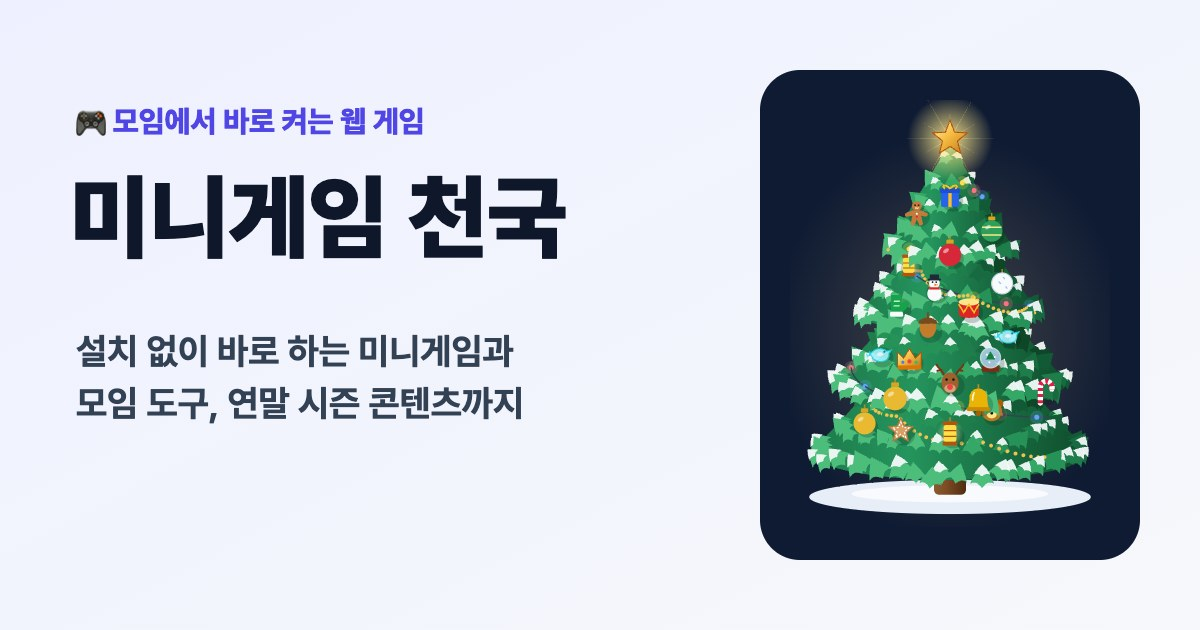
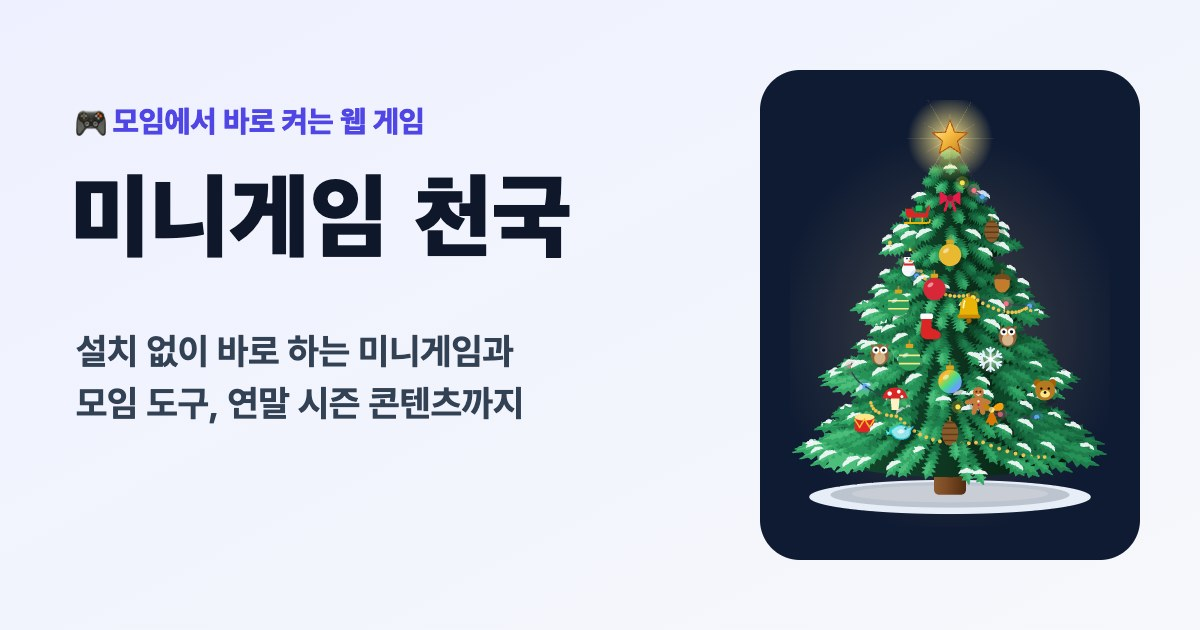
feat(advent-tree): 진짜 전나무처럼 가지마다 솔잎 다발, 어두운 속, 가지 위 눈덩이
- 잎 스티커 대신 줄기에서 뻗는 가지(약 360개)를 그린다. 가지마다 솔잎 다발 3개를
  화면에 비친 가지 방향대로 늘여 그려서 옆 가지는 길게, 나를 향한 가지는 짧게 보인다
- 속 원뿔을 어둡게 바꿔 가지 사이로 깊이가 보이게, 가지 끝은 밝게
- 가지 위에 얹힌 눈덩이, 트리 밑 그림자
- 전구·구슬 줄은 가지 위로 살짝 띄움
- 링크 미리보기 이미지 다시 생성

diff --git a/games/advent-tree.html b/games/advent-tree.html
@@ -1204,14 +1204,17 @@
         // ════════════════════════════════════════════════════════════
         // 트리 색 테마 (순서 고정: 링크 스냅샷에 번호로 들어간다)
         const THEMES = {
-            green: { name: '초록', emoji: '🌲', leaf: ['#0d4728', '#125a35', '#186b40', '#1e7d4b', '#279257', '#35a766', '#4dbd7c'], cone: ['#1d7a4b', '#25945d', '#0e4a2a'] },
-            snow: { name: '눈꽃', emoji: '❄', leaf: ['#6f879e', '#8aa1b6', '#a5b9cb', '#bfcfdd', '#d6e1ea', '#e8eef4', '#f7fafc'], cone: ['#b9c9d8', '#dbe5ee', '#8299ae'] },
-            pink: { name: '핑크', emoji: '🌸', leaf: ['#7f2450', '#9b3363', '#b44476', '#c95a8a', '#da74a0', '#e892b7', '#f4b6d1'], cone: ['#c2558a', '#d97aa6', '#87295a'] },
-            gold: { name: '금빛', emoji: '✨', leaf: ['#6e4a0c', '#865c12', '#9f6f19', '#b88423', '#cf9b33', '#e2b64f', '#f2d27f'], cone: ['#b98a2a', '#d6a943', '#76520f'] }
+            green: { name: '초록', emoji: '🌲', leaf: ['#0d4728', '#125a35', '#186b40', '#1e7d4b', '#279257', '#35a766', '#4dbd7c'], cone: ['#164a2d', '#103d25', '#05190d'] },
+            snow: { name: '눈꽃', emoji: '❄', leaf: ['#6f879e', '#8aa1b6', '#a5b9cb', '#bfcfdd', '#d6e1ea', '#e8eef4', '#f7fafc'], cone: ['#71879c', '#5e7388', '#33465a'] },
+            pink: { name: '핑크', emoji: '🌸', leaf: ['#7f2450', '#9b3363', '#b44476', '#c95a8a', '#da74a0', '#e892b7', '#f4b6d1'], cone: ['#7c2653', '#681d45', '#3a0c25'] },
+            gold: { name: '금빛', emoji: '✨', leaf: ['#6e4a0c', '#865c12', '#9f6f19', '#b88423', '#cf9b33', '#e2b64f', '#f2d27f'], cone: ['#6a4912', '#553a0c', '#2a1b04'] }
         };
         const THEME_KEYS = Object.keys(THEMES);
 
+        // 솔잎 다발 (가지 방향 = +x, 0~1 길이, 폭 -0.5~0.5). 가장자리가 톱니라 솔잎처럼 보인다. 트리 그림에서 <use href="#fr">로 쓴다.
+        const FROND = 'M0 0L.1-.2.17-.08.3-.42.37-.18.52-.5.58-.22.75-.4.79-.14 1-.04 1 .04.79.14.75.4.58.22.52.5.37.18.3.42.17.08.1.2Z';
         const DEFS = `<defs>
+            <path id="fr" d="${FROND}"/>
             <linearGradient id="gGold" x1="0" y1="0" x2="1" y2="1"><stop offset="0" stop-color="#fff3b0"/><stop offset=".5" stop-color="#f5b83d"/><stop offset="1" stop-color="#b7791f"/></linearGradient>
             <linearGradient id="gAurora" x1="0" y1="0" x2="0" y2="1"><stop offset="0" stop-color="#a5f3fc"/><stop offset=".5" stop-color="#a78bfa"/><stop offset="1" stop-color="#f0abfc"/></linearGradient>
             <linearGradient id="gIce" x1="0" y1="0" x2="0" y2="1"><stop offset="0" stop-color="#f0f9ff"/><stop offset="1" stop-color="#60a5fa"/></linearGradient>
@@ -1408,33 +1411,39 @@
                 return { x: 150 + lx, y: y + d * K, d, lx, r };
             }
 
-            // 잎 뭉치: 층마다 고리 모양으로 고정 배치 (돌리면 같이 돌아서 입체감이 난다)
-            const TUFTS = (() => {
+            // 가지: 층마다 줄기에서 바깥·아래로 뻗는 가지를 고리 모양으로 고정 배치.
+            // 가지 하나 = 줄기 쪽(base)에서 끝(tip)까지 곧은 선 위에 솔잎 다발 3개. 화면에 비친 가지 방향대로 늘여 그려서
+            // 옆으로 뻗은 가지는 길게, 나를 향한 가지는 짧고 둥글게 보인다(원근 단축). 안쪽은 어두운 속 원뿔이 비친다.
+            const BRANCHES = (() => {
                 const out = [];
                 const rnd = mulberry32(20261201);
                 TIERS.forEach((t) => {
                     const [ap, b] = t;
-                    const rows = Math.round((b - ap) / 22);
+                    const rows = Math.max(3, Math.round((b - ap) / 15));
                     for (let i = 1; i <= rows; i++) {
                         const y0 = ap + ((b - ap) * i) / rows - 1;
-                        const n = Math.max(3, Math.round((2 * Math.PI * tierR(t, y0)) / 17));
+                        const n = Math.max(3, Math.round((2 * Math.PI * tierR(t, y0)) / 23));
                         for (let j = 0; j < n; j++) {
-                            const y = Math.min(b - 1, y0 - rnd() * 8);
+                            const y = Math.min(b - 1, y0 - rnd() * 6);
                             const r = tierR(t, y);
                             if (r < radiusAt(y) - 3) continue;   // 위층 안쪽이라 안 보인다
-                            // 위층 치마 바로 밑은 그늘, 층 끝자락은 조금 밝고 크게
-                            const shade = TIERS.some(([, b2, hw2]) => y > b2 && y - b2 < 24 && hw2 > r * 0.8) ? -2 : i === rows ? 1 : 0;
-                            out.push({ a: ((j + (i % 2) * 0.5) / n) * 360 + rnd() * 8, y, r, s: (0.85 + rnd() * 0.35) * (i === rows ? 1.18 : 1), w: rnd() * 30 - 15, shade, lite: (i + j) % 3 === 0 || i === rows, snow: rnd() < (i === rows ? 0.7 : 0.38) });
+                            // 위층 치마 바로 밑은 그늘, 층 끝자락은 조금 밝게
+                            const shade = TIERS.some(([, b2, hw2]) => y > b2 && y - b2 < 22 && hw2 > r * 0.8) ? -1.6 : i === rows ? 0.5 : 0;
+                            out.push({
+                                a: ((j + (i % 2) * 0.5) / n) * 360 + rnd() * 10 - 5, y, r: r * (1 + rnd() * 0.07),
+                                len: 0.42 + rnd() * 0.14, lift: 0.1 + rnd() * 0.08, w: 0.85 + rnd() * 0.35,
+                                shade: shade + rnd() * 0.8 - 0.4, snow: rnd() < (i === rows ? 0.62 : 0.34)
+                            });
                         }
                     }
                 });
                 return out;
             })();
-            const TUFT = 'M0-8C2.6-4 5.6-.4 8 4.6 4.6 3 2.4 3.8 0 7.6-2.4 3.8-4.6 3-8 4.6-5.6-.4-2.6-4 0-8Z';
-            const CAP = 'M-5.6-1.2C-4-4-2-6.2 0-8 2-6.2 4-4 5.6-1.2 3.4-2.4 1.6-1.4 0-.2-1.6-1.4-3.4-2.4-5.6-1.2Z';
+            // 가지 위에 얹힌 눈덩이 (가로로 길고 위가 둥근 모양)
+            const CAP = 'M-6.4.6C-6.2-1.6-4.4-3-2.4-2.8-1.4-4.2 1.2-4.4 2.4-3 4.4-3.2 6.4-1.6 6.6.6 4.4-.6 2.2.2 0-.4-2.2.4-4.4-.4-6.4.6Z';
+            const SPRAY_T = [0.42, 0.7, 0.98];
             // 왼쪽 앞에서 빛이 온다
             const lightOf = (phi) => 0.5 + 0.5 * Math.cos((phi + 40) * RAD);
-            const leafColor = (th, phi, shade = 0) => th.leaf[clamp(Math.floor(lightOf(phi) * 6.99) + shade, 0, 6)];
             const SMALL = ['#fde047', '#fb7185', '#60a5fa', '#4ade80'];
             const BIG = ['#f43f5e', '#facc15', '#22d3ee', '#a3e635', '#c084fc'];
 
@@ -1462,12 +1471,33 @@
                 const s = 0.62 + 0.38 * f;
                 const P = (x, y) => scaled(x, y, f);
                 const items = [];
-                TUFTS.forEach((t) => {
-                    if (o.lite && !t.lite) return;
-                    const p = project(t.a, t.y, rot, t.r);
-                    if (p.d < -0.3 * t.r || cover(p.lx, p.d, t.y) >= 0) return;
-                    const [x, y] = P(p.x, p.y);
-                    items.push({ k: 't', x, y, d: p.d, sc: f * t.s * (o.lite ? 1.35 : 1) * (1 + p.d / 700), rot: (p.lx / Math.max(t.r, 1)) * 38 + t.w, c: leafColor(th, t.a - rot, t.shade), cap: t.snow });
+                BRANCHES.forEach((br) => {
+                    const tip = project(br.a, br.y, rot, br.r);
+                    if (tip.d < -0.3 * br.r || cover(tip.lx, tip.d, br.y) >= 0) return;
+                    const base = project(br.a, br.y - br.r * br.lift, rot, br.r * (1 - br.len));
+                    const dx = (tip.x - base.x) * f;
+                    const dy = (tip.y - base.y) * f;
+                    const L = Math.hypot(dx, dy) || 1;
+                    const ux = dx / L;
+                    const uy = dy / L;
+                    const near = 1 + tip.d / 700;
+                    const W = 13 * br.w * f * near * (o.lite ? 1.3 : 1);
+                    const Ls = Math.max(L * 0.62, W * 0.78);
+                    const sg = ux >= 0 ? 1 : -1;      // 다발의 "윗면"이 늘 화면 위쪽을 향하게 뒤집는다
+                    const light = lightOf(br.a - rot);
+                    const [bx, by] = P(base.x, base.y);
+                    SPRAY_T.forEach((tt, k) => {
+                        if (o.lite && k < 2) return;
+                        const cx = bx + dx * tt - ux * Ls * 0.62;
+                        const cy = by + dy * tt - uy * Ls * 0.62;
+                        const ci = clamp(Math.round(light * 3.3 + k * 1.15 + br.shade - 0.9), 0, 6);
+                        items.push({
+                            k: 't', d: base.d + (tip.d - base.d) * tt,
+                            m: [ux * Ls, uy * Ls, -uy * W * sg, ux * W * sg, cx, cy],
+                            c: th.leaf[ci], hl: k === 2 && ci < 6 && !o.lite ? th.leaf[ci + 1] : null,
+                            cap: k === 2 && br.snow ? { x: cx + ux * Ls * 0.55, y: cy + uy * Ls * 0.55 - W * 0.12, s: W / 12, r: Math.abs(ux) > 0.5 ? clamp(Math.atan2(uy * sg, ux * sg) / RAD, -28, 28) : 0 } : null
+                        });
+                    });
                 });
                 // 금빛 구슬 줄: 나선으로 감되 고정점 사이가 살짝 처진다
                 if (v.stage >= 2) {
@@ -1480,7 +1510,7 @@
                         const p = project(120 + tt * turns * 360, yy, rot, radiusAt(yy));
                         if (p.d < -0.1 * p.r || cover(p.lx, p.d, yy) >= 0) continue;
                         const [x, y] = P(p.x, p.y);
-                        items.push({ k: 'g', x, y, d: p.d + 0.3, r: 1.55 * f * (1 + p.d / 700) * (o.lite ? 1.4 : 1) });
+                        items.push({ k: 'g', x, y, d: p.d + 4, r: 1.55 * f * (1 + p.d / 700) * (o.lite ? 1.4 : 1) });
                     }
                 }
                 const helix = (turns, phase, n, size, colors, y0, y1) => {
@@ -1492,9 +1522,9 @@
                         const p = project(phase + tt * turns * 360, yy, rot, radiusAt(yy) * 0.99);
                         const vis = p.d > -0.12 * p.r && cover(p.lx, p.d, yy) < 0;
                         const [x, y] = P(p.x, p.y);
-                        if (vis && prev && !o.lite) items.push({ k: 'w', x1: prev[0], y1: prev[1], x2: x, y2: y, d: p.d - 1, sc: f });
+                        if (vis && prev && !o.lite) items.push({ k: 'w', x1: prev[0], y1: prev[1], x2: x, y2: y, d: p.d + 3, sc: f });
                         prev = vis ? [x, y] : null;
-                        if (vis && i % 4 === 2) items.push({ k: 'b', x, y, d: p.d + 0.5, r: size * f, c: colors[Math.floor(i / 4) % colors.length], ph: i / 4 + phase });
+                        if (vis && i % 4 === 2) items.push({ k: 'b', x, y, d: p.d + 6, r: size * f, c: colors[Math.floor(i / 4) % colors.length], ph: i / 4 + phase });
                     }
                 };
                 if (v.stage >= 3) helix(2.4, 20, 30, 2.4, SMALL, 70, 318);
@@ -1518,7 +1548,9 @@
             }
 
             const n1 = (x) => Math.round(x * 10) / 10;
-            const conePath = ([ap, b, hw]) => `M150 ${ap}L${150 + hw} ${b}A${hw} ${n1(hw * K)} 0 0 1 ${150 - hw} ${b}Z`;
+            const n2 = (x) => Math.round(x * 100) / 100;
+            const conePath = ([ap, b, hw], k = 1) => `M150 ${ap}L${n1(150 + hw * k)} ${b}A${n1(hw * k)} ${n1(hw * k * K)} 0 0 1 ${n1(150 - hw * k)} ${b}Z`;
+            const CORE = 0.9;   // 속 원뿔(어두운 안쪽)은 가지 끝보다 안쪽
             const RAYS = (() => {
                 let d = '';
                 for (let i = 0; i < 12; i++) {
@@ -1537,11 +1569,15 @@
                 let g = '';
                 if (sc.glow) g += `<ellipse cx="150" cy="${n1(scaled(150, 220, sc.f)[1])}" rx="${n1(165 * sc.f)}" ry="${n1(190 * sc.f)}" fill="url(#gWarm)"/>`;
                 g += '<ellipse cx="150" cy="372" rx="132" ry="16" fill="#e8eef7"/><ellipse cx="150" cy="369" rx="92" ry="8" fill="#fff" opacity=".7"/>';
+                g += `<ellipse cx="150" cy="370" rx="${n1(112 * sc.f)}" ry="${n1(12 * sc.f)}" fill="#0b1a33" opacity=".2"/>`;
                 g += sc.back.map(boxTag).join('');
-                g += `<g transform="translate(150 370) scale(${sc.f}) translate(-150 -370)">${TRUNK}${faceSvg(v.mood)}${TIERS.map((t) => `<path d="${conePath(t)}" fill="url(#gCone-${theme})"/>`).join('')}</g>`;
+                g += `<g transform="translate(150 370) scale(${sc.f}) translate(-150 -370)">${TRUNK}${faceSvg(v.mood)}${TIERS.map((t) => `<path d="${conePath(t, CORE)}" fill="url(#gCone-${theme})"/>`).join('')}</g>`;
                 sc.items.forEach((it) => {
                     if (it.k === 't') {
-                        g += `<g transform="translate(${n1(it.x)} ${n1(it.y)}) rotate(${Math.round(it.rot)}) scale(${n1(it.sc * 10) / 10})"><path d="${TUFT}" fill="${it.c}"/>${it.cap ? `<path d="${CAP}" fill="#f8fafc" opacity=".92"/>` : ''}</g>`;
+                        const mt = `matrix(${it.m.slice(0, 4).map(n2).join(' ')} ${n1(it.m[4])} ${n1(it.m[5])})`;
+                        g += `<use href="#fr" transform="${mt}" fill="${it.c}"/>`;
+                        if (it.hl) g += `<use href="#fr" transform="${mt} translate(.1 -.1) scale(.8 .45)" fill="${it.hl}"/>`;
+                        if (it.cap) g += `<path d="${CAP}" transform="translate(${n1(it.cap.x)} ${n1(it.cap.y)}) rotate(${Math.round(it.cap.r)}) scale(${n2(it.cap.s)})" fill="#f8fafc" opacity=".92"/>`;
                     } else if (it.k === 'g') {
                         g += `<circle cx="${n1(it.x)}" cy="${n1(it.y)}" r="${n1(it.r)}" fill="#f2c14e"/>`;
                     } else if (it.k === 'w') {
@@ -1602,7 +1638,7 @@
             function paint(ctx, v, rot, o = {}) {
                 const sc = build(v, rot);
                 const t = o.t ?? 0;
-                path2d = path2d || { tuft: new Path2D(TUFT), cap: new Path2D(CAP), rays: new Path2D(RAYS) };
+                path2d = path2d || { frond: new Path2D(FROND), cap: new Path2D(CAP), rays: new Path2D(RAYS) };
                 if (sc.glow) {
                     const [gx, gy] = scaled(150, 220, sc.f);
                     const gr = ctx.createRadialGradient(gx, gy, 0, gx, gy, 190 * sc.f);
@@ -1615,26 +1651,34 @@
                 ctx.beginPath(); ctx.ellipse(150, 372, 132, 16, 0, 0, Math.PI * 2); ctx.fill();
                 ctx.globalAlpha = 0.7; ctx.fillStyle = '#fff';
                 ctx.beginPath(); ctx.ellipse(150, 369, 92, 8, 0, 0, Math.PI * 2); ctx.fill();
+                ctx.globalAlpha = 0.2; ctx.fillStyle = '#0b1a33';
+                ctx.beginPath(); ctx.ellipse(150, 370, 112 * sc.f, 12 * sc.f, 0, 0, Math.PI * 2); ctx.fill();
                 ctx.globalAlpha = 1;
                 sc.back.forEach((b) => drawBox(ctx, b));
                 withScale(ctx, sc.f, () => {
                     const trunk = pic(`trunk|${v.mood}`, TRUNK + faceSvg(v.mood), '120 310 60 64', 180, 192);
                     if (trunk) ctx.drawImage(trunk, 120, 310, 60, 64);
                     TIERS.forEach((tier) => {
-                        const hw = tier[2];
+                        const hw = tier[2] * CORE;
                         const gr = ctx.createLinearGradient(150 - hw, 0, 150 + hw, 0);
                         gr.addColorStop(0, sc.th.cone[0]); gr.addColorStop(0.35, sc.th.cone[1]); gr.addColorStop(1, sc.th.cone[2]);
                         ctx.fillStyle = gr;
-                        ctx.fill(new Path2D(conePath(tier)));
+                        ctx.fill(new Path2D(conePath(tier, CORE)));
                     });
                 });
                 const canFilter = 'filter' in ctx;
                 sc.items.forEach((it) => {
                     if (it.k === 't') {
-                        ctx.save(); ctx.translate(it.x, it.y); ctx.rotate(it.rot * RAD); ctx.scale(it.sc, it.sc);
-                        ctx.fillStyle = it.c; ctx.fill(path2d.tuft);
-                        if (it.cap) { ctx.globalAlpha = 0.92; ctx.fillStyle = '#f8fafc'; ctx.fill(path2d.cap); }
+                        const m = it.m;
+                        ctx.save(); ctx.transform(m[0], m[1], m[2], m[3], m[4], m[5]);
+                        ctx.fillStyle = it.c; ctx.fill(path2d.frond);
+                        if (it.hl) { ctx.translate(0.1, -0.1); ctx.scale(0.8, 0.45); ctx.fillStyle = it.hl; ctx.fill(path2d.frond); }
                         ctx.restore();
+                        if (it.cap) {
+                            ctx.save(); ctx.translate(it.cap.x, it.cap.y); ctx.rotate(it.cap.r * RAD); ctx.scale(it.cap.s, it.cap.s);
+                            ctx.globalAlpha = 0.92; ctx.fillStyle = '#f8fafc'; ctx.fill(path2d.cap);
+                            ctx.restore();
+                        }
                     } else if (it.k === 'g') {
                         ctx.fillStyle = '#f2c14e';
                         ctx.beginPath(); ctx.arc(it.x, it.y, it.r, 0, Math.PI * 2); ctx.fill();
